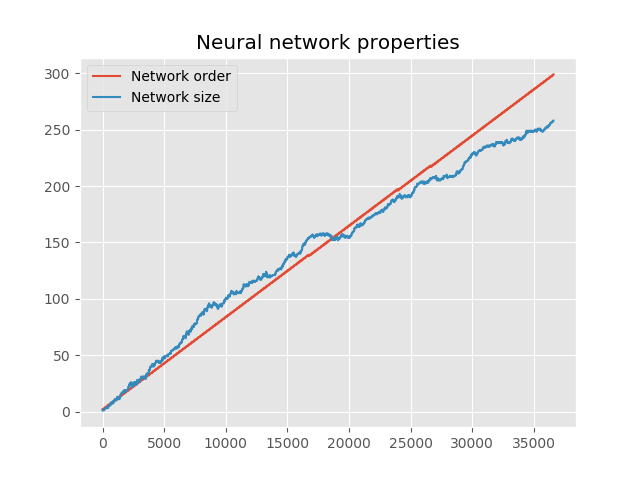
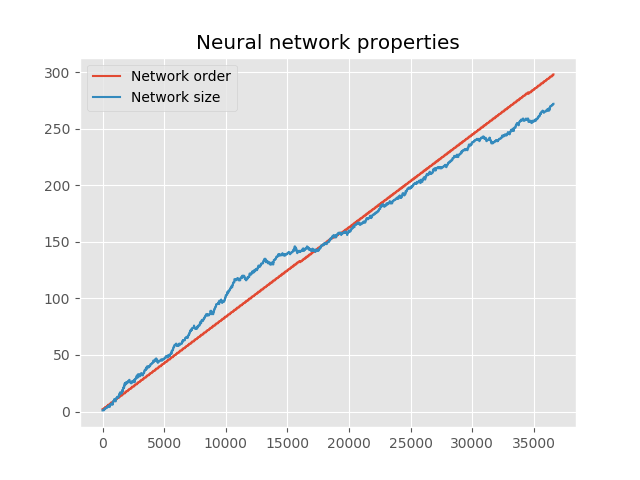
Mise a jour main pour python et main pour notebook

diff --git a/main.py b/main.py
@@ -121,7 +121,7 @@ if algos.__contains__("SPECTRAL"):
 
 if algos.__contains__("NEURALGAS"):
     for passes in range(150,250,50):
-        for distance_toremove_edge in range(30,40,5):
+        for distance_toremove_edge in range(60,120,30):
             m:algo.model=algo.create_cluster_from_neuralgasnetwork(
                 copy.deepcopy(ref_mod).clear_clusters(),
                 passes=passes,
